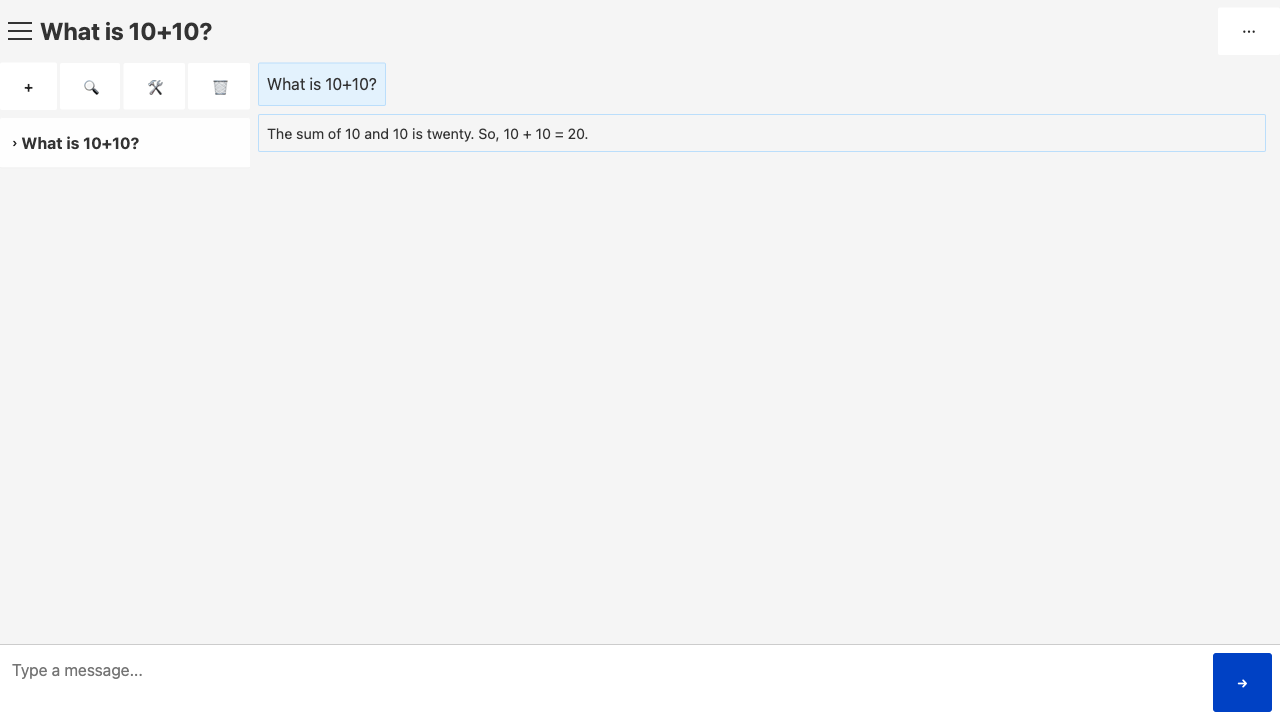
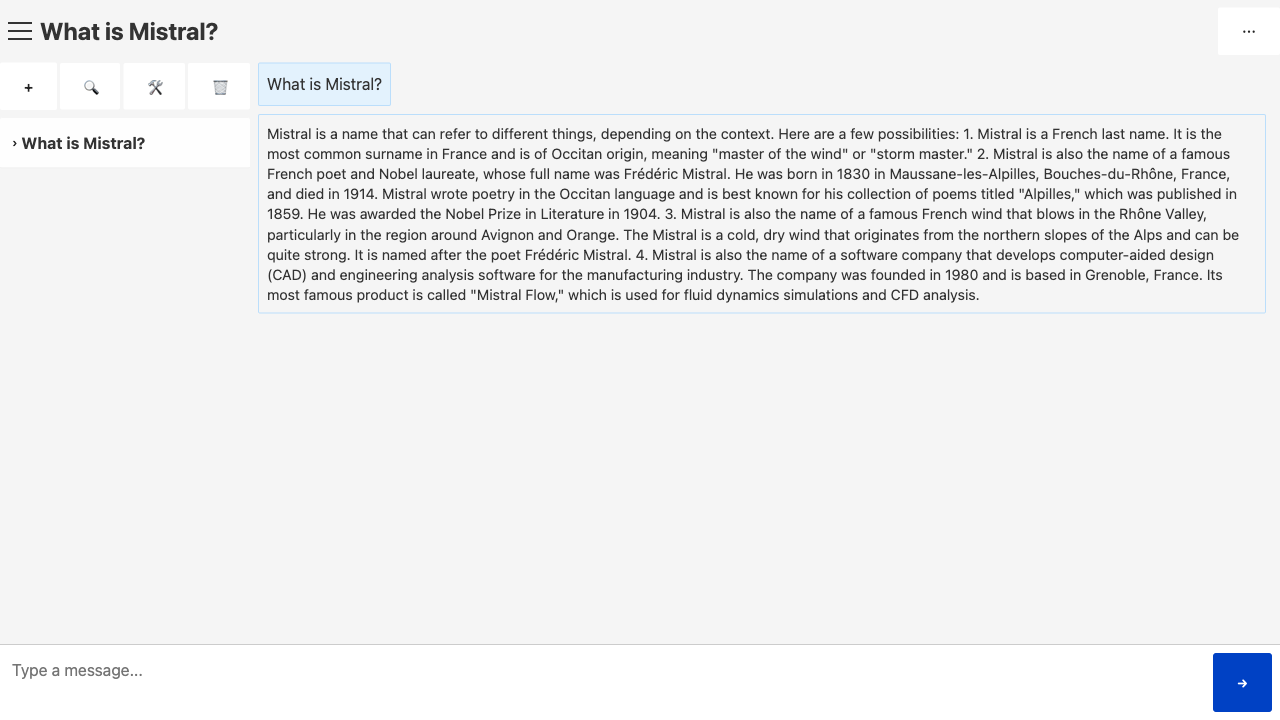
Add screenshots of mobile device

diff --git a/js/App.test.js b/js/App.test.js
@@ -17,7 +17,8 @@ function openScreenshot (filePath) {
   })
 }
 
-const GITHUB_ACTIONS = process.env.GITHUB_ACTIONS || false
+const MOBILE = process.env.MOBILE === 'true' || false
+const GITHUB_ACTIONS = process.env.GITHUB_ACTIONS === 'true' || false
 
 class AppTest {
   async start () {
@@ -29,8 +30,17 @@ class AppTest {
         throw Error(`Console error detected: ${message.text()}`)
       }
     })
+    if (MOBILE) {
+      this.mobileDevice()
+    }
     await this.page.goto('http://localhost:1234')
     this.sidebar = this.page.locator('#sidebar')
+  }
+
+  async mobileDevice () {
+    const width = 375
+    const height = 667
+    await this.page.setViewportSize({ width, height })
   }
 
   async showSettings () {
@@ -95,6 +105,10 @@ class AppTest {
     if (path === undefined) {
       path = 'screenshot.png'
     }
+    if (MOBILE) {
+      path = `mobile-${path}`
+    }
+    path = `screenshots/${path}`
     await this.page.screenshot({ path })
     openScreenshot(path)
   }
@@ -168,7 +182,7 @@ test.describe('Application tests', () => {
 
   test('Search chats', async () => {
     // Create chats for each country
-    for (const name of ['Finland', 'Sweden', 'Canada', 'Norway', 'Denmark']) {
+    for (const name of ['History of Finland', 'History of Sweden', 'History of Canada', 'History of Norway', 'History of Denmark']) {
       await app.newChat(name)
     }
 
@@ -189,7 +203,7 @@ test.describe('Application tests', () => {
     await app.page.fill('#search-input', '')
     await app.page.type('#search-input', 'w')
     await app.page.waitForTimeout(500) // Small delay to allow UI to update
-    await app.screenshot('screenshots/search.png')
+    await app.screenshot('search.png')
     // Check if 'Sweden' is visible
     swedenVisible = await app.page.locator('.chat-list-item:has-text("Sweden")').isVisible()
     expect(swedenVisible).toBeTruthy()
@@ -200,7 +214,7 @@ test.describe('Application tests', () => {
 
   test('Collapse sidebar', async () => {
     // Create chats for each country
-    for (const name of ['Finland', 'Sweden', 'Norway', 'Denmark']) {
+    for (const name of ['History of Finland', 'History of Sweden', 'History of Norway', 'History of Denmark']) {
       await app.newChat(name)
     }
     // Collapse sidebar
@@ -212,17 +226,20 @@ test.describe('Application tests', () => {
   })
 
   if (GITHUB_ACTIONS === false) {
-    console.log('AAAAAAAAAAAAAA')
     test('Send message', async () => {
       await app.updateSettings(url, model)
-      await app.editChatTitle('What is 10+10?')
-      await app.sendMessage('What is 10+10?')
-      await app.screenshot('screenshots/chat.png')
+      // Create chat
+      await app.editChatTitle('What is Mistral?')
+      await app.sendMessage('What is Mistral?')
+      await app.screenshot('chat.png')
+      // Collapse
+      await app.page.click('#hamburger-menu')
+      await app.screenshot('chat-collapsed.png')
     })
 
     test('Show settings', async () => {
       await app.showSettings()
-      await app.screenshot('screenshots/settings.png')
+      await app.screenshot('settings.png')
     })
 
     test('Update settings', async () => {
@@ -232,10 +249,10 @@ test.describe('Application tests', () => {
 
   test('Send message (server down)', async () => {
     await app.page.fill('#message-input', 'Server is down')
-    await app.page.fill('#message-input', 'What is 10+10?')
+    await app.page.fill('#message-input', 'What is Mistral?')
     await app.page.click('#send-button')
     await app.page.waitForTimeout(500) // Small delay to allow UI to update
-    await app.screenshot('screenshots/chat-error.png')
+    await app.screenshot('chat-error.png')
     await expect(app.page.locator('#abort-button')).not.toBeVisible()
     await expect(app.page.locator('#send-button')).toBeVisible()
   })

diff --git a/README.md b/README.md
@@ -1,6 +1,6 @@
 # ollama-html-ui
 
-![cover](/screenshots/chat.png)
+![cover](/screenshots/chat-collapsed.png)
 
 ![Contributions Welcome](https://img.shields.io/badge/Contributions-welcome-blue.svg)
 
@@ -10,6 +10,7 @@ A HTML UI for Ollama.
 
 - Zero dependencies: vanilla HTML, CSS, and Javascript
 - Simple installation: download and open in browser
+- Minimal & responsive UI: mobile & desktop
 
 ## Features
 
@@ -27,9 +28,19 @@ A HTML UI for Ollama.
 
 ## Screenshots
 
-![Main screen](/screenshots/chat.png)
+**Desktop**
+
+![Chat (fullscreen)](/screenshots/chat-collapsed.png)
+![Chat](/screenshots/chat.png)
 ![Settings screen](/screenshots/settings.png)
 ![Search](/screenshots/search.png)
+
+**Mobile**
+
+![Chat (fullscreen)](/screenshots/mobile-chat-collapsed.png)
+![Chat](/screenshots/mobile-chat.png)
+![Settings screen](/screenshots/mobile-settings.png)
+![Search](/screenshots/mobile-search.png)
 
 ## Installing
 
